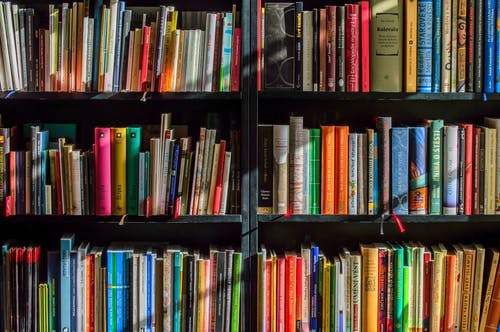
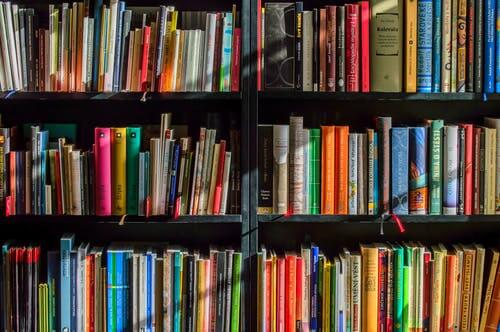
compress images, async defer unimportant js files

diff --git a/index.html b/index.html
@@ -7,13 +7,13 @@
         <link href="https://fonts.googleapis.com/css2?family=Bebas+Neue&display=swap" rel="stylesheet">
         <link href="https://fonts.googleapis.com/css2?family=Playfair+Display&display=swap" rel="stylesheet">
         <link rel="stylesheet" href="https://cdnjs.cloudflare.com/ajax/libs/animate.css/4.1.1/animate.min.css"/>
-        <link href="https://unpkg.com/aos@2.3.1/dist/aos.css" rel="stylesheet">
+        <!-- <link href="https://unpkg.com/aos@2.3.1/dist/aos.css" rel="stylesheet"> -->
         <script src="https://kit.fontawesome.com/4e31ef7c0f.js" crossorigin="anonymous"></script>
         <link rel="icon" href="misgeret.jpg" type="misgeret/jpg">
         <!-- swiper.js -->
         <link rel="stylesheet" href="https://unpkg.com/swiper/swiper-bundle.min.css">
         <link rel="stylesheet" href="style.css">
-        <script id="mcjs">!function(c,h,i,m,p){m=c.createElement(h),p=c.getElementsByTagName(h)[0],m.async=1,m.src=i,p.parentNode.insertBefore(m,p)}(document,"script","https://chimpstatic.com/mcjs-connected/js/users/5580eb104f7bf241e80b907e8/81d01c73817ab4410f64112bc.js");</script>
+        <!-- <script id="mcjs">!function(c,h,i,m,p){m=c.createElement(h),p=c.getElementsByTagName(h)[0],m.async=1,m.src=i,p.parentNode.insertBefore(m,p)}(document,"script","https://chimpstatic.com/mcjs-connected/js/users/5580eb104f7bf241e80b907e8/81d01c73817ab4410f64112bc.js");</script> -->
 
   <!-- <script type="text/javascript" id="hs-script-loader" async defer src="//js.hs-scripts.com/8795924.js"></script> -->
 
@@ -21,10 +21,21 @@
 <script type="text/javascript" id="hs-script-loader" async defer src="//js.hs-scripts.com/8795924.js"></script>
 <!-- End of HubSpot Embed Code -->
 
+<!-- MailerLite Universal -->
+<script>
+    (function(m,a,i,l,e,r){ m['MailerLiteObject']=e;function f(){
+    var c={ a:arguments,q:[]};var r=this.push(c);return "number"!=typeof r?r:f.bind(c.q);}
+    f.q=f.q||[];m[e]=m[e]||f.bind(f.q);m[e].q=m[e].q||f.q;r=a.createElement(i);
+    var _=a.getElementsByTagName(i)[0];r.async=1;r.src=l+'?v'+(~~(new Date().getTime()/1000000));
+    _.parentNode.insertBefore(r,_);})(window, document, 'script', 'https://static.mailerlite.com/js/universal.js', 'ml');
+    
+    var ml_account = ml('accounts', '2659097', 'a2c9n7r1i3', 'load');
+    </script>
+    <!-- End MailerLite Universal -->
+    
         <title>Misgeret</title>        
 </head>
 <body> 
-
     <!-- <div class="loading-icon">
         <div class="loadingio-spinner-blocks-bigec3kb91b"><div class="ldio-xqlmhc073ca">
             <div style='left:21.599999999999998px;top:21.599999999999998px;animation-delay:0s'></div><div style='left:48px;top:21.599999999999998px;animation-delay:0.125s'></div><div style='left:74.39999999999999px;top:21.599999999999998px;animation-delay:0.25s'></div><div style='left:21.599999999999998px;top:48px;animation-delay:0.875s'></div><div style='left:74.39999999999999px;top:48px;animation-delay:0.375s'></div><div style='left:21.599999999999998px;top:74.39999999999999px;animation-delay:0.75s'></div><div style='left:48px;top:74.39999999999999px;animation-delay:0.625s'></div><div style='left:74.39999999999999px;top:74.39999999999999px;animation-delay:0.5s'></div>
@@ -169,7 +180,7 @@
                     ARTICLES <span class="colored">&</span> TUTORIALS
                 </div>
                 <div class="blog">
-                    <div class="blog-image"><a href="#"><img src="bookstore.jpeg" alt="image"></a></div>
+                    <div class="blog-image"><a href="#"><img src="bookstore.jpeg" loading = "lazy" alt="image"></a></div>
                     <div class="blog-text">
                         <div class="blog-text-header">
                             Rabbi Zobin's best selling books
@@ -185,7 +196,7 @@
                     </div>
                 </div>
                 <div class="blog">
-                    <div class="blog-image"><a href="#"><img src="gemoro.jpg" alt="image"></a></div>
+                    <div class="blog-image"><a href="#"><img src="gemoro.jpg" loading = "lazy" alt="image"></a></div>
                     <div class="blog-text">
                         <div class="blog-text-header">
                             an unlikely experiment that's working really well!
@@ -201,7 +212,7 @@
                     </div>
                 </div>
                 <div class="blog">
-                    <div class="blog-image"><a href="#"><img src="kosel.jpg" alt="image"></a></div>
+                    <div class="blog-image"><a href="#"><img src="kosel.jpg" loading = "lazy" alt="image"></a></div>
                     <div class="blog-text">
                         <div class="blog-text-header">
                             an unlikely experiment that's working really well!
@@ -294,66 +305,34 @@
 
             <div class="speech-bubble speech1 wow animate__animated animate__fadeInLeft">
                 <i class="fas fa-quote-left"></i>
-                <p>My son started saying the whole Shema before he goes to bed from a siddur. Also a Perek in Tehillim every day, and he read a full page of pirkei avos on shabbos. All on his own, we didn't ask him to. He is so excited that it's starting to get easier for him to read and we are so happy, I can't even tell you! So thank you. May hashem give you all the Brochos you need, you are a shliach of Hashem to work this miracle out with kids and it's amazing!</p><br>
-                <span class="quote-from">- Yehuda_G</span>
+                <p>My son started saying the whole Shema before he goes to bed from a siddur. Also a Perek in Tehillim every day, and he read a full page of pirkei avos on shabbos. All on his own, we didn't ask him to. He is so excited that it's starting to get easier for him to read and we are so happy, I can't even tell you! So thank you. May hashem give you all the Brochos you need, you are a shliach of Hashem to work this miracle out with kids and it's amazing!</p>
+                <div class="quote-from">Yehuda_G<br>London, UK<br>Age: 9</div>
                 <div class="speech-bubble-piece-left"></div>
             </div>
             <div class="speech-bubble speech2 wow animate__animated animate__fadeInRight">
                 <i class="fas fa-quote-left"></i>
-                <p>My wife and I would like to thank you for your amazing progress, care and devotion you put into to *Yitzy. Yitzy came to shul and davened Maariv, Mussaf and the whole of Neila. He read and davened beautifully and looked comfortable at it. I told him that I hoped he feels very proud with the amazing progress he is making so quickly. We can’t thank you enough, it means more to us than we could ever put into words. You should be blessed with every brocha that could think off and some that you can’t think of. With immense gratitude.</p><br>
-                <span class="quote-from">- Mordechai_C</span>
+                <p>My wife and I would like to thank you for your amazing progress, care and devotion you put into to *Yitzy. Yitzy came to shul and davened Maariv, Mussaf and the whole of Neila. He read and davened beautifully and looked comfortable at it. I told him that I hoped he feels very proud with the amazing progress he is making so quickly. We can’t thank you enough, it means more to us than we could ever put into words. You should be blessed with every brocha that could think off and some that you can’t think of. With immense gratitude.</p>
+                <div class="quote-from">Yehuda_G<br>London, UK</div>
                 <div class="speech-bubble-piece-right"></div>
             </div>
             <div class="speech-bubble speech3 wow animate__animated animate__fadeInLeft">
                 <i class="fas fa-quote-left"></i>
-                <p>My son started saying the whole Shema before he goes to bed from a siddur. Also a Perek in Tehillim every day, and he read a full page of pirkei avos on shabbos. All on his own, we didn't ask him to. He is so excited that it's starting to get easier for him to read and we are so happy, I can't even tell you! So thank you. May hashem give you all the Brochos you need, you are a shliach of Hashem to work this miracle out with kids and it's amazing!</p><br>
-                <span class="quote-from">- Shmuly_O</span>
+                <p>My son started saying the whole Shema before he goes to bed from a siddur. Also a Perek in Tehillim every day, and he read a full page of pirkei avos on shabbos. All on his own, we didn't ask him to. He is so excited that it's starting to get easier for him to read and we are so happy, I can't even tell you! So thank you. May hashem give you all the Brochos you need, you are a shliach of Hashem to work this miracle out with kids and it's amazing!</p>
+                <div class="quote-from">Yehuda_G<br>London, UK</div>
                 <div class="speech-bubble-piece-left"></div>
             </div>
             <div class="speech-bubble speech4 wow animate__animated animate__fadeInRight">
                 <i class="fas fa-quote-left"></i>
-                <p>My son started saying the whole Shema before he goes to bed from a siddur. Also a Perek in Tehillim every day, and he read a full page of pirkei avos on shabbos. All on his own, we didn't ask him to. He is so excited that it's starting to get easier for him to read and we are so happy, I can't even tell you! So thank you. May hashem give you all the Brochos you need, you are a shliach of Hashem to work this miracle out with kids and it's amazing!</p><br>
-                <span class="quote-from">- Shmuly_O</span>
+                <p>My son started saying the whole Shema before he goes to bed from a siddur. Also a Perek in Tehillim every day, and he read a full page of pirkei avos on shabbos. All on his own, we didn't ask him to. He is so excited that it's starting to get easier for him to read and we are so happy, I can't even tell you! So thank you. May hashem give you all the Brochos you need, you are a shliach of Hashem to work this miracle out with kids and it's amazing!</p>
+                <div class="quote-from">Yehuda_G<br>London, UK</div>
                 <div class="speech-bubble-piece-right"></div>
             </div>
         </div>
 
-        <div class="shadow-image"></div>
-        <div class="testimonials testimonials-trainees">
-            <!-- <div class="arrow-down arrow-down-light"></div> -->
-            <h1>TRAINEES <span class="colored">&</span> MECHANCHIM</h1>
-
-            <div class="speech-bubble speech1-trainees wow animate__animated animate__fadeInLeft">
-                <i class="fas fa-quote-left"></i>
-                <p>My son started saying the whole Shema before he goes to bed from a siddur. Also a Perek in Tehillim every day, and he read a full page of pirkei avos on shabbos. All on his own, we didn't ask him to. He is so excited that it's starting to get easier for him to read and we are so happy, I can't even tell you! So thank you. May hashem give you all the Brochos you need, you are a shliach of Hashem to work this miracle out with kids and it's amazing!</p><br>
-                <span class="quote-from">- Yehuda_G</span>
-                <div class="speech-bubble-piece-left speech-bubble-piece-left-trainees"></div>
-            </div>
-            <div class="speech-bubble speech2-trainees wow animate__animated animate__fadeInRight">
-                <i class="fas fa-quote-left"></i>
-                <p>My wife and I would like to thank you for your amazing progress, care and devotion you put into to *Yitzy. Yitzy came to shul and davened Maariv, Mussaf and the whole of Neila. He read and davened beautifully and looked comfortable at it. I told him that I hoped he feels very proud with the amazing progress he is making so quickly. We can’t thank you enough, it means more to us than we could ever put into words. You should be blessed with every brocha that could think off and some that you can’t think of. With immense gratitude.</p><br>
-                <span class="quote-from">- Mordechai_C</span>
-                <div class="speech-bubble-piece-right speech-bubble-piece-right-trainees"></div>
-            </div>
-            <div class="speech-bubble speech3-trainees wow animate__animated animate__fadeInLeft">
-                <i class="fas fa-quote-left"></i>
-                <p>My son started saying the whole Shema before he goes to bed from a siddur. Also a Perek in Tehillim every day, and he read a full page of pirkei avos on shabbos. All on his own, we didn't ask him to. He is so excited that it's starting to get easier for him to read and we are so happy, I can't even tell you! So thank you. May hashem give you all the Brochos you need, you are a shliach of Hashem to work this miracle out with kids and it's amazing!</p><br>
-                <span class="quote-from">- Shmuly_O</span>
-                <div class="speech-bubble-piece-left speech-bubble-piece-left-trainees"></div>
-            </div>
-            <div class="speech-bubble speech4-trainees wow animate__animated animate__fadeInRight">
-                <i class="fas fa-quote-left"></i>
-                <p>My son started saying the whole Shema before he goes to bed from a siddur. Also a Perek in Tehillim every day, and he read a full page of pirkei avos on shabbos. All on his own, we didn't ask him to. He is so excited that it's starting to get easier for him to read and we are so happy, I can't even tell you! So thank you. May hashem give you all the Brochos you need, you are a shliach of Hashem to work this miracle out with kids and it's amazing!</p><br>
-                <span class="quote-from">- Shmuly_O</span>
-                <div class="speech-bubble-piece-right speech-bubble-piece-left-trainees"></div>
-            </div>
-        </div>
-
-        
         <!-- <div class="contact-area"> -->
             <!-- <img src="https://2vkwmk3jbw1b4bccan18qetm-wpengine.netdna-ssl.com/wp-content/uploads/2016/05/frankkern.png" alt=""> -->
             <div class="inner-contact-area">
-                <div class="arrow-down-white"></div>
+                <div class="arrow-down-dark-blue"></div>
                 <div class="inner-contact-text flex-item">
                     <h2>Meet Rabbi Zobin</h2>
                     <p>Lorem, ipsum dolor sit amet consectetur adipisicing elit. Fugit explicabo eligendi dicta! Sunt ipsa unde fugit totam dolorem sequi, necessitatibus nihil maiores error culpa sed itaque cum earum facere ea. Lorem ipsum dolor, sit amet consectetur adipisicing elit.</p>
@@ -376,6 +355,46 @@
                 </div>
             </div>
         <!-- </div> -->
+
+        <div class="shadow-image"></div>
+        <div class="testimonials testimonials-trainees">
+            <!-- <div class="arrow-down arrow-down-light"></div> -->
+            <h1>TRAINEES <span class="colored">&</span> MECHANCHIM</h1>
+
+            <div class="speech-bubble speech1-trainees wow animate__animated animate__fadeInLeft">
+                <i class="fas fa-quote-left"></i>
+                <p>My son started saying the whole Shema before he goes to bed from a siddur. Also a Perek in Tehillim every day, and he read a full page of pirkei avos on shabbos. All on his own, we didn't ask him to. He is so excited that it's starting to get easier for him to read and we are so happy, I can't even tell you! So thank you. May hashem give you all the Brochos you need, you are a shliach of Hashem to work this miracle out with kids and it's amazing!</p>
+                <div class="quote-from">Yehuda_G<br>London, UK</div>
+                <div class="speech-bubble-piece-left speech-bubble-piece-left-trainees"></div>
+            </div>
+            <div class="speech-bubble speech2-trainees wow animate__animated animate__fadeInRight">
+                <i class="fas fa-quote-left"></i>
+                <p>My wife and I would like to thank you for your amazing progress, care and devotion you put into to *Yitzy. Yitzy came to shul and davened Maariv, Mussaf and the whole of Neila. He read and davened beautifully and looked comfortable at it. I told him that I hoped he feels very proud with the amazing progress he is making so quickly. We can’t thank you enough, it means more to us than we could ever put into words. You should be blessed with every brocha that could think off and some that you can’t think of. With immense gratitude.</p>
+                <div class="quote-from">Yehuda_G<br>London, UK</div>
+                <div class="speech-bubble-piece-right speech-bubble-piece-right-trainees"></div>
+            </div>
+            <div class="speech-bubble speech3-trainees wow animate__animated animate__fadeInLeft">
+                <i class="fas fa-quote-left"></i>
+                <p>My son started saying the whole Shema before he goes to bed from a siddur. Also a Perek in Tehillim every day, and he read a full page of pirkei avos on shabbos. All on his own, we didn't ask him to. He is so excited that it's starting to get easier for him to read and we are so happy, I can't even tell you! So thank you. May hashem give you all the Brochos you need, you are a shliach of Hashem to work this miracle out with kids and it's amazing!</p>
+                <div class="quote-from">Yehuda_G<br>London, UK</div>
+                <div class="speech-bubble-piece-left speech-bubble-piece-left-trainees"></div>
+            </div>
+            <div class="speech-bubble speech4-trainees wow animate__animated animate__fadeInRight">
+                <i class="fas fa-quote-left"></i>
+                <p>My son started saying the whole Shema before he goes to bed from a siddur. Also a Perek in Tehillim every day, and he read a full page of pirkei avos on shabbos. All on his own, we didn't ask him to. He is so excited that it's starting to get easier for him to read and we are so happy, I can't even tell you! So thank you. May hashem give you all the Brochos you need, you are a shliach of Hashem to work this miracle out with kids and it's amazing!</p>
+                <div class="quote-from">Yehuda_G<br>London, UK</div>
+                <div class="speech-bubble-piece-right speech-bubble-piece-left-trainees"></div>
+            </div>
+        </div>
+
+        <!-- <iframe src="https://drive.google.com/file/d/15FnEXgl9cXAKnZ34xIguyUGrBD8x3uCM/preview" class="testimonial-video" frameborder = '0'></iframe>
+        
+        <video width="400" height="255" controls>
+            <source src="https://drive.google.com/file/d/15FnEXgl9cXAKnZ34xIguyUGrBD8x3uCM/preview" type="video/mp4">
+            </video> -->
+
+        
+
         <div class="footer-banner">
             <div class="bottom-banner-inner">
                 <h3><a href="#">NEW Webinar: How To Help Your Child/Talmid Overcome His Learning Difficulties</a></h3>
@@ -430,9 +449,8 @@
   <!-- End of HubSpot Embed Code -->
 
 
-     <script type="text/javascript" src="//translate.google.com/translate_a/element.js?cb=googleTranslateElementInit"></script>
+     <script type="text/javascript" src="//translate.google.com/translate_a/element.js?cb=googleTranslateElementInit" async defer></script>
      <!-- swiper.js -->
-     <script src="https://unpkg.com/swiper/swiper-bundle.min.js"></script>
      <script src="wow.min.js"></script>
     <script src="script.js"></script>    
 </body>

diff --git a/style.css b/style.css
@@ -663,9 +663,9 @@ div.blog-image{
     margin: 0;
     width: 100%;
 }
-span.quote-from{
+.quote-from{
     font-style: italic;
-    margin-left: auto;
+    margin-top: 20px;
 }
 .speech-bubble-piece-left{
     content: '';
@@ -734,6 +734,10 @@ span.quote-from{
 }
 
 
+.testimonial-video{
+    width: 30%;
+    height: 300px;
+}
 
 
 
@@ -746,10 +750,10 @@ span.quote-from{
 }
 
 
-.swiper-container {
+/* .swiper-container {
     width: 600px;
     height: 300px;
-}
+} */
 
 /* .articles-container{
     background-color: #f9f9f9;
@@ -789,12 +793,12 @@ span.quote-from{
     /* position: relative; */
 }
 
-.arrow-down-white{
+.arrow-down-dark-blue{
     width: 0; 
     height: 0; 
     border-left: 50px solid transparent;
     border-right: 50px solid transparent;
-    border-top: 25px solid white;
+    border-top: 25px solid rgb(3, 3, 31);
     opacity: 1;
     /* margin: auto; */
     position: absolute;
